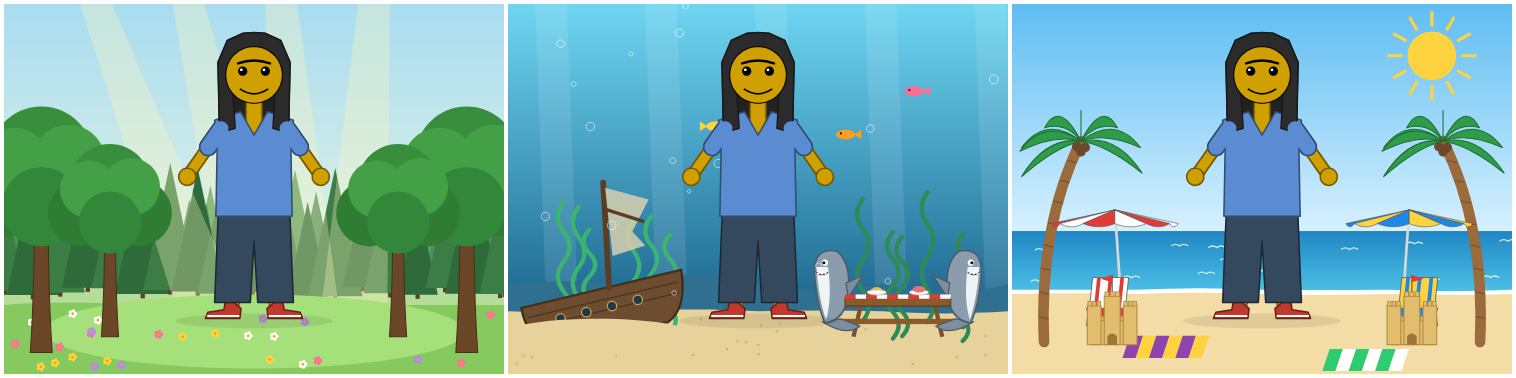
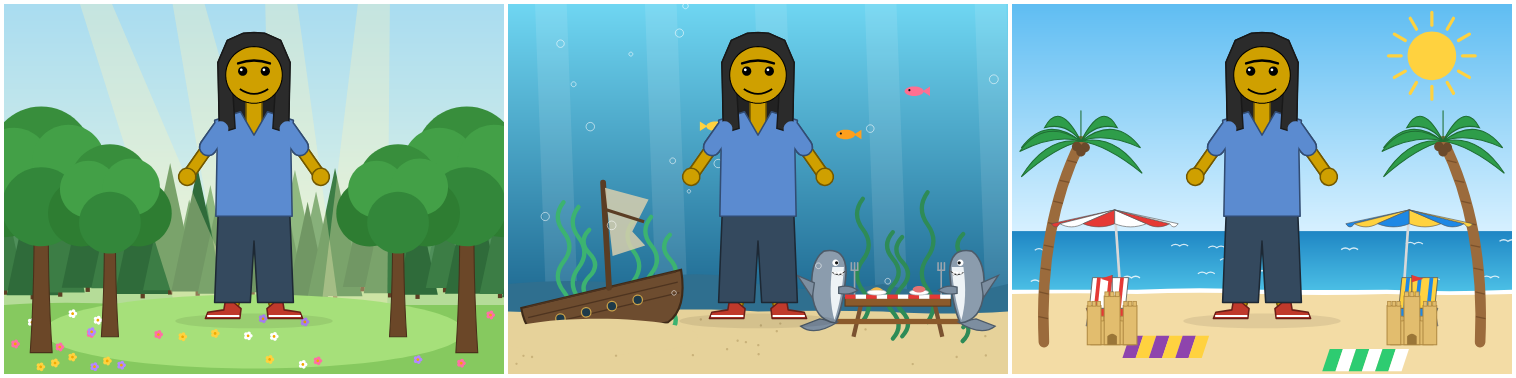
Issue 003: the witch's woods and the cemetery; the HUD done

Changed region(s): [[0.527, 0.6693, 0.5891, 0.873], [0.6201, 0.6693, 0.6821, 0.873]]

diff --git a/003/index.html b/003/index.html
@@ -61,7 +61,7 @@
 <h1>A day of requests from M and N</h1>
 <p class="sub">Two players asked for features in Messed Up Dress Up today: M (my daughter) and N (my son). As in <a href="../002/">issue 002</a>, each one went first into the game, a single HTML/JS file they play with, and only then toward the Hazel slides. This issue is what they asked for, what it looks like, which parts reached Hazel today, and what those parts cost there.</p>
 
-<figure><img src="img/hero.png" alt="Three scenes: a green witch with a hooked nose, a tuxedo cat on her shoulder and a broom, on a beach with palms and sand castles; a tiger costume with wrapped stripes in a forest meadow under sunshafts; a deer costume under water beside a shipwreck and two sharks at a picnic table.">
+<figure><img src="img/hero.png" alt="Three scenes: a green witch with a hooked nose, a tuxedo cat on her shoulder and a broom, on a beach with palms and sand castles; a tiger costume with wrapped stripes in a forest meadow under sunshafts; a deer costume under water beside a shipwreck and two sharks at a picnic table, forks in their fins.">
 <figcaption>Today's game: a witch at the beach, a tiger in the forest, a deer under the sea.</figcaption></figure>
 
 <div class="kpis">
@@ -84,8 +84,27 @@
 <figure><img src="img/n-arms600.png" alt="A figure with arms 600 long, a ball of 100 claws on each hand; then the same with the claws at 900%."><figcaption>Arms at 600, 100 claws each side; then the claws at 900%.</figcaption></figure>
 
 <h3>Backgrounds</h3>
-<p>Four to start: none, a forest with a meadow and sunshafts, under the sea with a shipwreck and sharks at a picnic table, and a beach with umbrellas, chairs, blankets, palms, sand castles, the sun, and the ocean next to the sand. A scene is drawn behind everything, its ground at the figure's feet. With a background on, the picture turns landscape, with room at the sides for the scenery and in front of the feet for flowers, castles and blankets.</p>
-<figure><img src="img/n-backgrounds.png" alt="The default figure in the forest, under water, and at the beach."><figcaption>Forest, underwater, beach.</figcaption></figure>
+<p>Four to start: none, a forest with a meadow and sunshafts, under the sea with a shipwreck and sharks at a picnic table (facing it, forks in their fins), and a beach with umbrellas, chairs, blankets, palms, sand castles, the sun, and the ocean next to the sand. A scene is a stage of its own, wide, with room at the sides for the scenery and in front of the feet for flowers, castles and blankets. The figure stands on its ground at a size and place of its own: drag it, or use the size slider and a small picture of the stage to tap.</p>
+<figure><img src="img/n-backgrounds.png" alt="The default figure in the forest, under water with two sharks facing their picnic table, forks in their fins, and at the beach."><figcaption>Forest, underwater, beach.</figcaption></figure>
+<p>Two more came later in the day:</p>
+<ul>
+  <li><b>A witch's woods</b> at dusk, with a moon and bats.
+    <ul>
+      <li>Far off stands a log hut with a red door, up on giant red-orange chicken legs with white feathers and clawed toes.</li>
+      <li>A palisade of stakes runs across the middle, with skulls on its posts.</li>
+      <li>Her cabin has smoke rising from its chimney, and her cauldron bubbles green over a fire, a red-eyed skull on the pot and a green and cyan plume twisting up.</li>
+      <li>Skeletons reach up out of the ground.</li>
+      <li>Each dead tree grows from its own seed, leaning, drooping or snapped off, and one giant sprawls over the left.</li>
+    </ul></li>
+  <li><b>A cemetery</b>, peaceful and green rather than spooky.
+    <ul>
+      <li>Clouds, hills, dark yews and round trees, and a weeping willow by a brook that winds down to the front.</li>
+      <li>Celtic crosses with rings, bosses and knotwork, and rounded headstones.</li>
+      <li>One dark granite cross with a stag on a shield on its pedestal.</li>
+      <li>Bushes, and flowers everywhere.</li>
+    </ul></li>
+</ul>
+<figure><img src="img/n-backgrounds-2.png" alt="The witch with her cat and broom in the witch's woods: a hut on giant chicken legs behind a skull-topped palisade, her cabin, a bubbling cauldron, skeletons in the ground, a giant dead tree, a moon and bats. Then the default figure in a peaceful cemetery: Celtic crosses, a dark stag stone, yews, a willow by a brook, flowers and clouds."><figcaption>The witch's woods; the cemetery.</figcaption></figure>
 
 <h2 id="m">From M</h2>
 
@@ -150,7 +169,12 @@
 
 <h2 id="next">What next</h2>
 <ul>
-  <li><b>A heads-up display in full screen.</b> The figure gets its own size and place in a scene, dragged along the ground. A 📌 by any slider pins it to a see-through strip along the bottom, for playing with the figure against the background.</li>
+  <li><b>A heads-up display in full screen</b> (done the same evening).
+    <ul>
+      <li>A strip below the picture starts with just the figure's size and place in the scene.</li>
+      <li>A 📌 by any slider in the editor adds it there, saved with the friend.</li>
+      <li>A 👁 on each slider in the strip folds it away to its name.</li>
+    </ul></li>
   <li><b>The rest of today's features into the slides</b>, the costumes and backgrounds first.</li>
   <li><b>A profile of the per-finger cost</b> on the Hands slide.</li>
 </ul>
